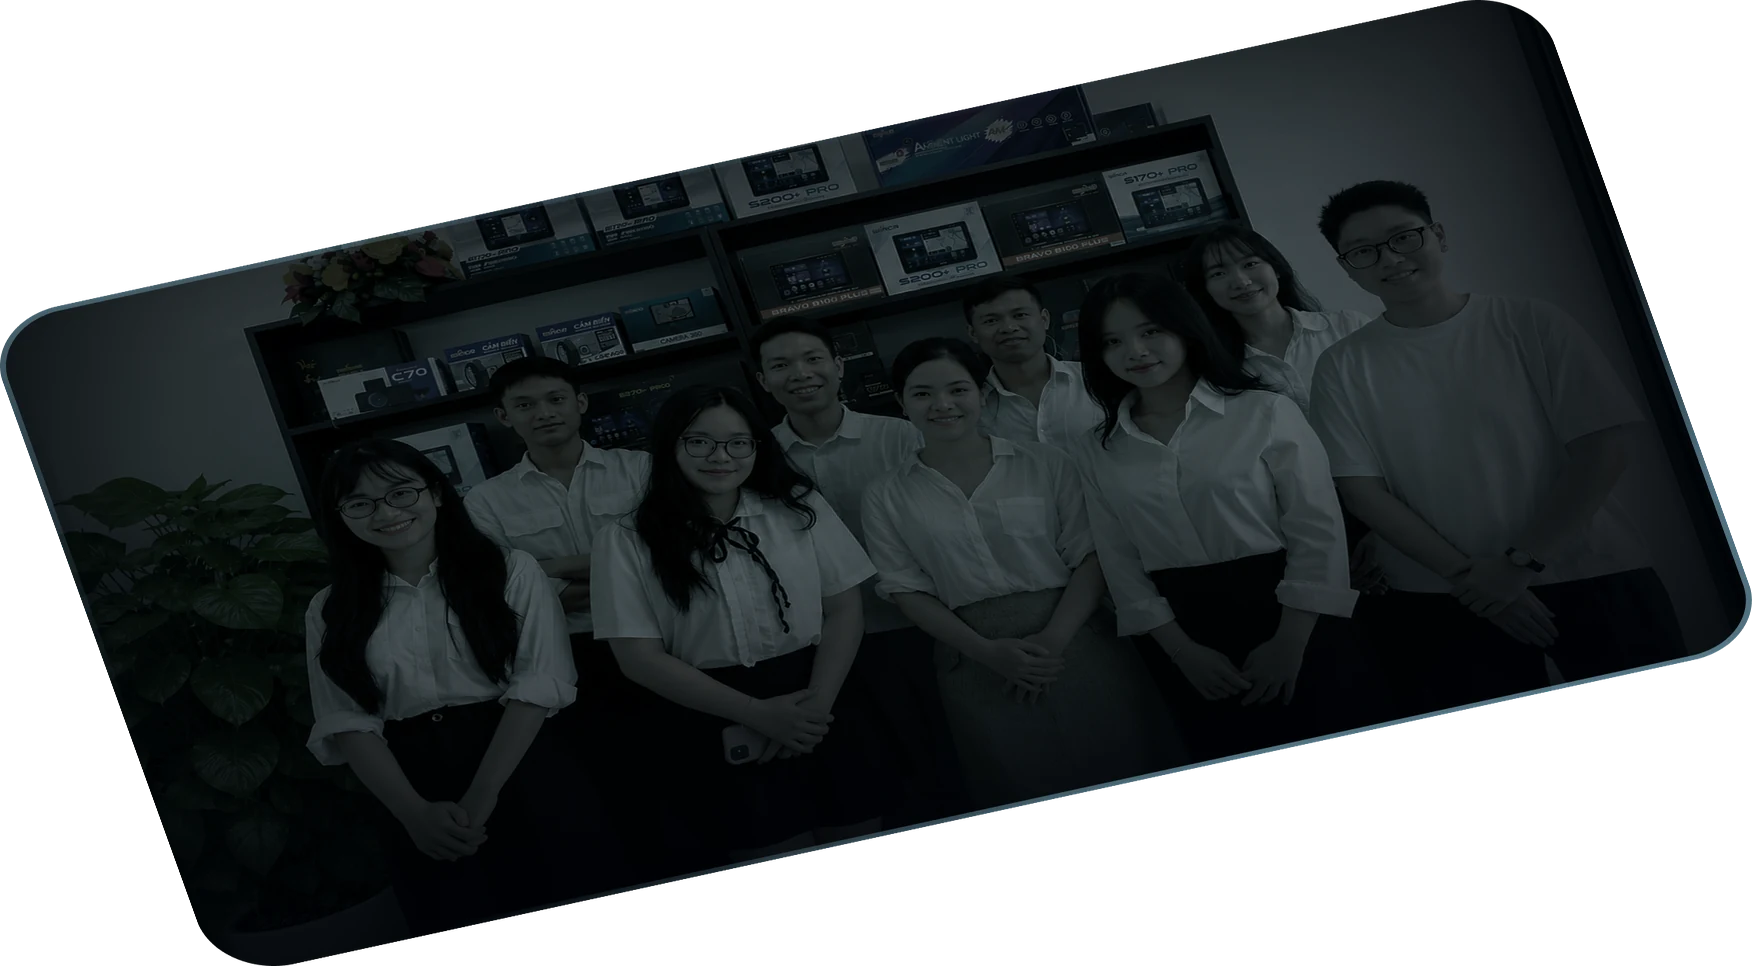
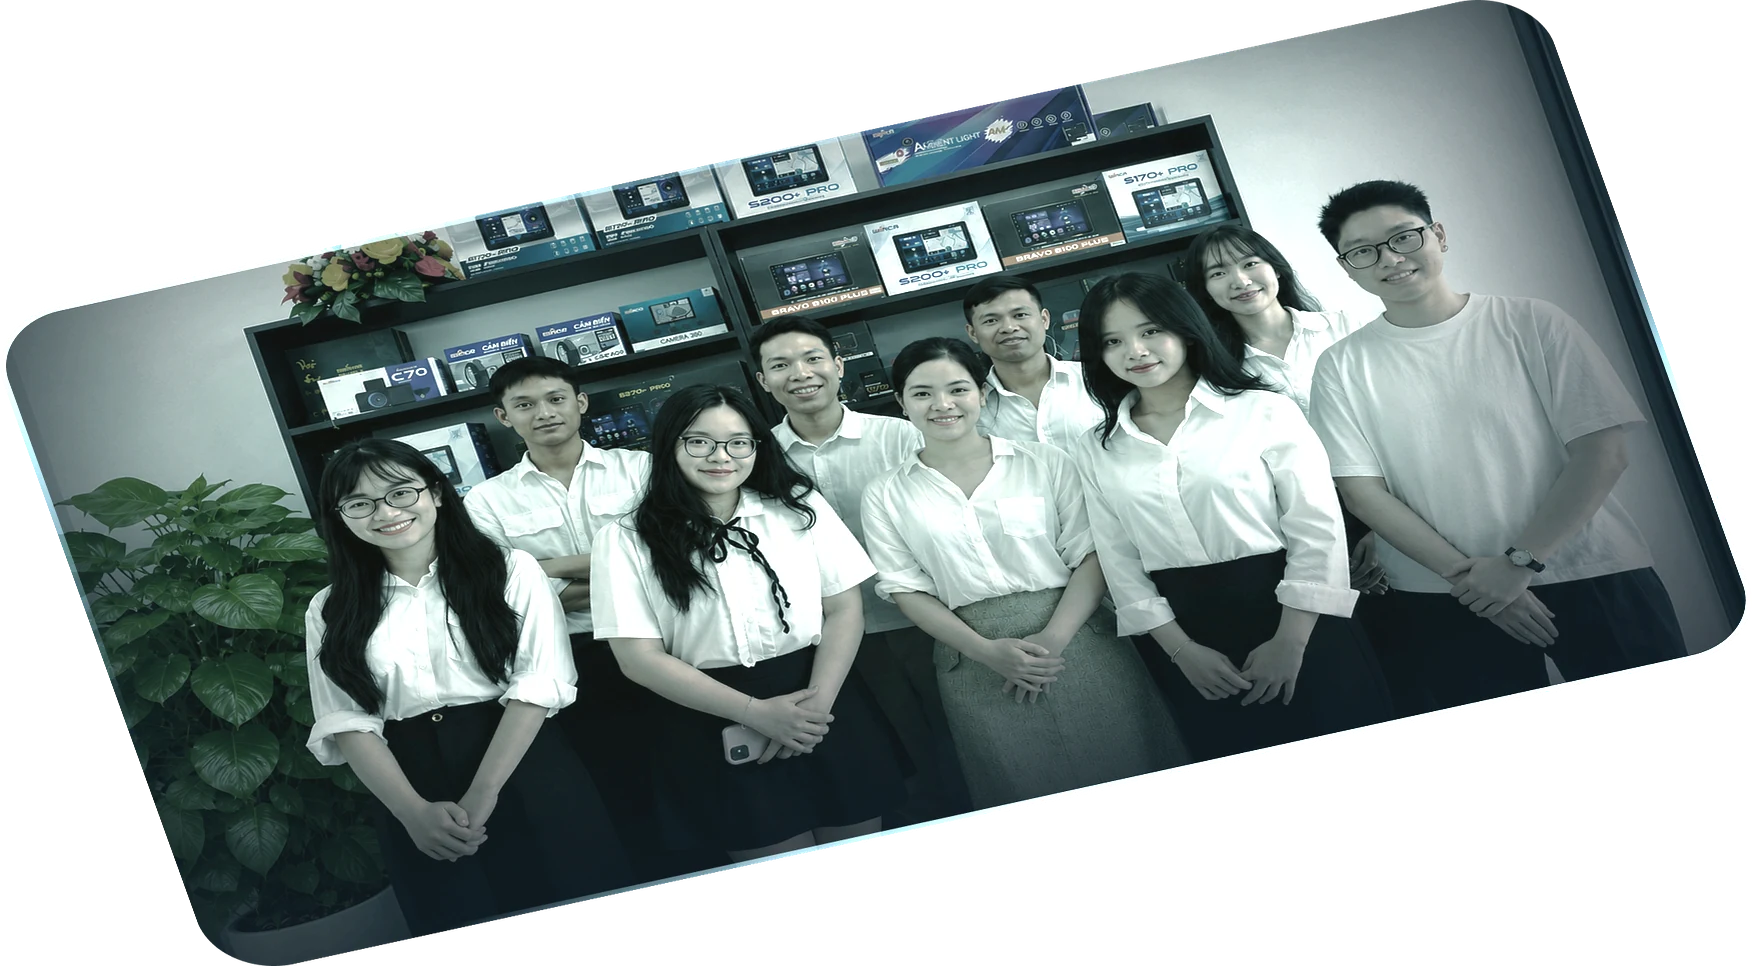
fix: ảnh trong chồng hết bị tối sì; hai nút Tìm hiểu thêm dẫn sang bài viết
Chồng ảnh 'Con người TC': hai tấm cuối trong bộ tài nguyên là bản ĐÃ LÀM
TỐI SẴN cho vị trí 'nằm sau chồng' trong thiết kế (độ sáng 45 và 27 so
với 113 của tấm đầu). Trước đây không lộ vì chúng không bao giờ lên trên
cùng; từ khi chồng xoay được thì bấm vài cái là một tấm gần như đen sì
nhảy lên đầu. Bộ tài nguyên không có bản sáng, nên kéo lại bằng phép
tuyến tính từng kênh — đưa trung bình và độ lệch về bằng tấm đầu. Đây là
phép gần đúng; muốn màu thật thì cần khách xuất lại ảnh gốc.

Hai nút 'TÌM HIỂU THÊM' trên trang Tiên phong công nghệ chỉ xổ thêm chữ
tại chỗ. Phép so khớp tự động đòi tiêu đề mục gần giống tên một trang, mà
'CÔNG NGHỆ MỚI' với 'NGHIÊN CỨU & PHÁT TRIỂN' thì không giống tên trang
'Bài viết' chữ nào. Thêm bảng chỉ đích làm tay (MANUAL_TARGETS).

diff --git a/tools/brand/extract-photo-sliders.py b/tools/brand/extract-photo-sliders.py
@@ -19,6 +19,7 @@ import sys
 import json
 from pathlib import Path
 
+import numpy as np
 from PIL import Image
 
 ROOT = Path(__file__).resolve().parent.parent.parent
@@ -84,6 +85,42 @@ SLIDERS = [
 ]
 
 
+#: Duoi muc nay so voi slide dau thi coi la anh da bi lam toi san, phai keo lai.
+DIM_RATIO = 0.7
+
+
+def stats(image: Image.Image) -> tuple[np.ndarray, np.ndarray]:
+    """Trung binh va do lech tung kenh mau, chi tinh tren phan DAC cua anh."""
+    a = np.asarray(image.convert("RGBA"), dtype=np.float32)
+    mask = a[..., 3] > 200
+    rgb = a[..., :3][mask]
+    return rgb.mean(axis=0), rgb.std(axis=0) + 1e-6
+
+
+def match_exposure(art: Image.Image, mean: np.ndarray, std: np.ndarray) -> Image.Image:
+    """
+    Keo sang/mau cua mot slide ve ngang voi slide dau.
+
+    Vi sao can: may tam phia sau trong bo tai nguyen la ban da duoc LAM TOI SAN
+    cho hop voi vi tri "nam sau chong" trong ban thiet ke. Truoc day chuyen do
+    khong lo ra vi chung khong bao gio duoc dua len tren cung. Tu khi chong anh
+    xoay duoc (khach yeu cau 30/09/2026) thi bam vai cai la mot tam gan nhu den
+    si nhay len dau — khach bao ngay (anh 67).
+
+    Bo tai nguyen KHONG co ban sang cua hai tam do, nen o day keo lai bang
+    phep tuyen tinh tung kenh: dua trung binh va do lech cua phan dac ve dung
+    bang slide dau. Day la phep gan dung; muon mau that thi phai xin khach
+    xuat lai anh goc.
+    """
+    a = np.asarray(art.convert("RGBA"), dtype=np.float32)
+    alpha = a[..., 3:]
+    rgb = a[..., :3]
+    m, sd = stats(art)
+    fixed = (rgb - m) * (std / sd) + mean
+    out = np.concatenate([np.clip(fixed, 0, 255), alpha], axis=2)
+    return Image.fromarray(out.astype(np.uint8), "RGBA")
+
+
 def main() -> int:
     OUT.mkdir(parents=True, exist_ok=True)
     manifest: dict[str, list[dict]] = {}
@@ -130,6 +167,20 @@ def main() -> int:
                 height = art.height
                 width = round(height * ratio)
             art = art.resize((width, height), Image.LANCZOS)
+
+            # Anh nao toi hon han slide dau thi keo lai cho ca chong dong bo.
+            # Chi dung khi chenh lech LON — cac slide von da dung sang thi giu
+            # nguyen, khong dong vao.
+            base_mean, base_std = stats(first)
+            art_mean, _ = stats(art)
+            if art_mean.mean() < base_mean.mean() * DIM_RATIO:
+                before = art_mean.mean()
+                art = match_exposure(art, base_mean, base_std)
+                print(
+                    f"    keo sang {path.name}: {before:.0f} -> {stats(art)[0].mean():.0f}"
+                    " (anh trong bo tai nguyen da bi lam toi san)"
+                )
+
             target = OUT / f"{slider['id']}-{index}.webp"
             art.save(target, "WEBP", quality=88, method=6)
             slides.append(f"/sliders/{slider['id']}-{index}.webp")

diff --git a/tools/match-cta.py b/tools/match-cta.py
@@ -28,6 +28,26 @@ BUTTONS = ROOT / "src" / "data" / "detected-buttons.json"
 PRODUCTS = ROOT / "src" / "data" / "products.json"
 TARGET = ROOT / "src" / "data" / "cta-links.json"
 
+#: Dich den DO TAY cho nhung nut ma phep so khop theo ten khong the tim ra.
+#:
+#: Phep so khop tu dong doi tieu de cua muc phai gan giong ten mot trang. Hai
+#: muc "CÔNG NGHỆ MỚI" va "NGHIÊN CỨU & PHÁT TRIỂN" thi khong: trang chua ca
+#: hai bai la "Bài viết" — khong co tu nao chung. Ket qua la hai nut do chi xo
+#: them chu ra tai cho, trong khi khach da noi ro "chỗ nào có bài viết khác
+#: thì nhấn vào nó phải ra bài viết liên quan" (30/09/2026).
+#:
+#: Khoa: (slug cua trang, tieu de cua muc). Ghi de len ket qua tu dong.
+MANUAL_TARGETS: dict[tuple[str, str], str] = {
+    (
+        "cong-nghe/tien-phong-cong-nghe",
+        "CÔNG NGHỆ MỚI",
+    ): "/cong-nghe/tien-phong-cong-nghe/bai-viet",
+    (
+        "cong-nghe/tien-phong-cong-nghe",
+        "NGHIÊN CỨU & PHÁT TRIỂN",
+    ): "/cong-nghe/tien-phong-cong-nghe/bai-viet",
+}
+
 CTA_PATTERN = re.compile(
     r"^>?\s*(XEM\s*TH[EÊẼ]M|XEM\s*CHI\s*TI[EÊ]T|T[IÌ]M\s*HI[EÊỀ]U\s*TH[EÊ]M|T[AẢ]I\s*V[EÊ])\s*$"
 )
@@ -439,6 +459,10 @@ def main() -> int:
             # Khong tu tro ve chinh no.
             if href == f"/{slug}":
                 href = None
+            # Ghi de do tay — xem MANUAL_TARGETS.
+            manual = MANUAL_TARGETS.get((slug, (title or "").strip()))
+            if manual:
+                href, score = manual, 1.0
 
             body, body_box = paragraphs_between(blocks, title_bottom, block["y"], block["x"])
             title, overflow = split_runon_title(title or "")
